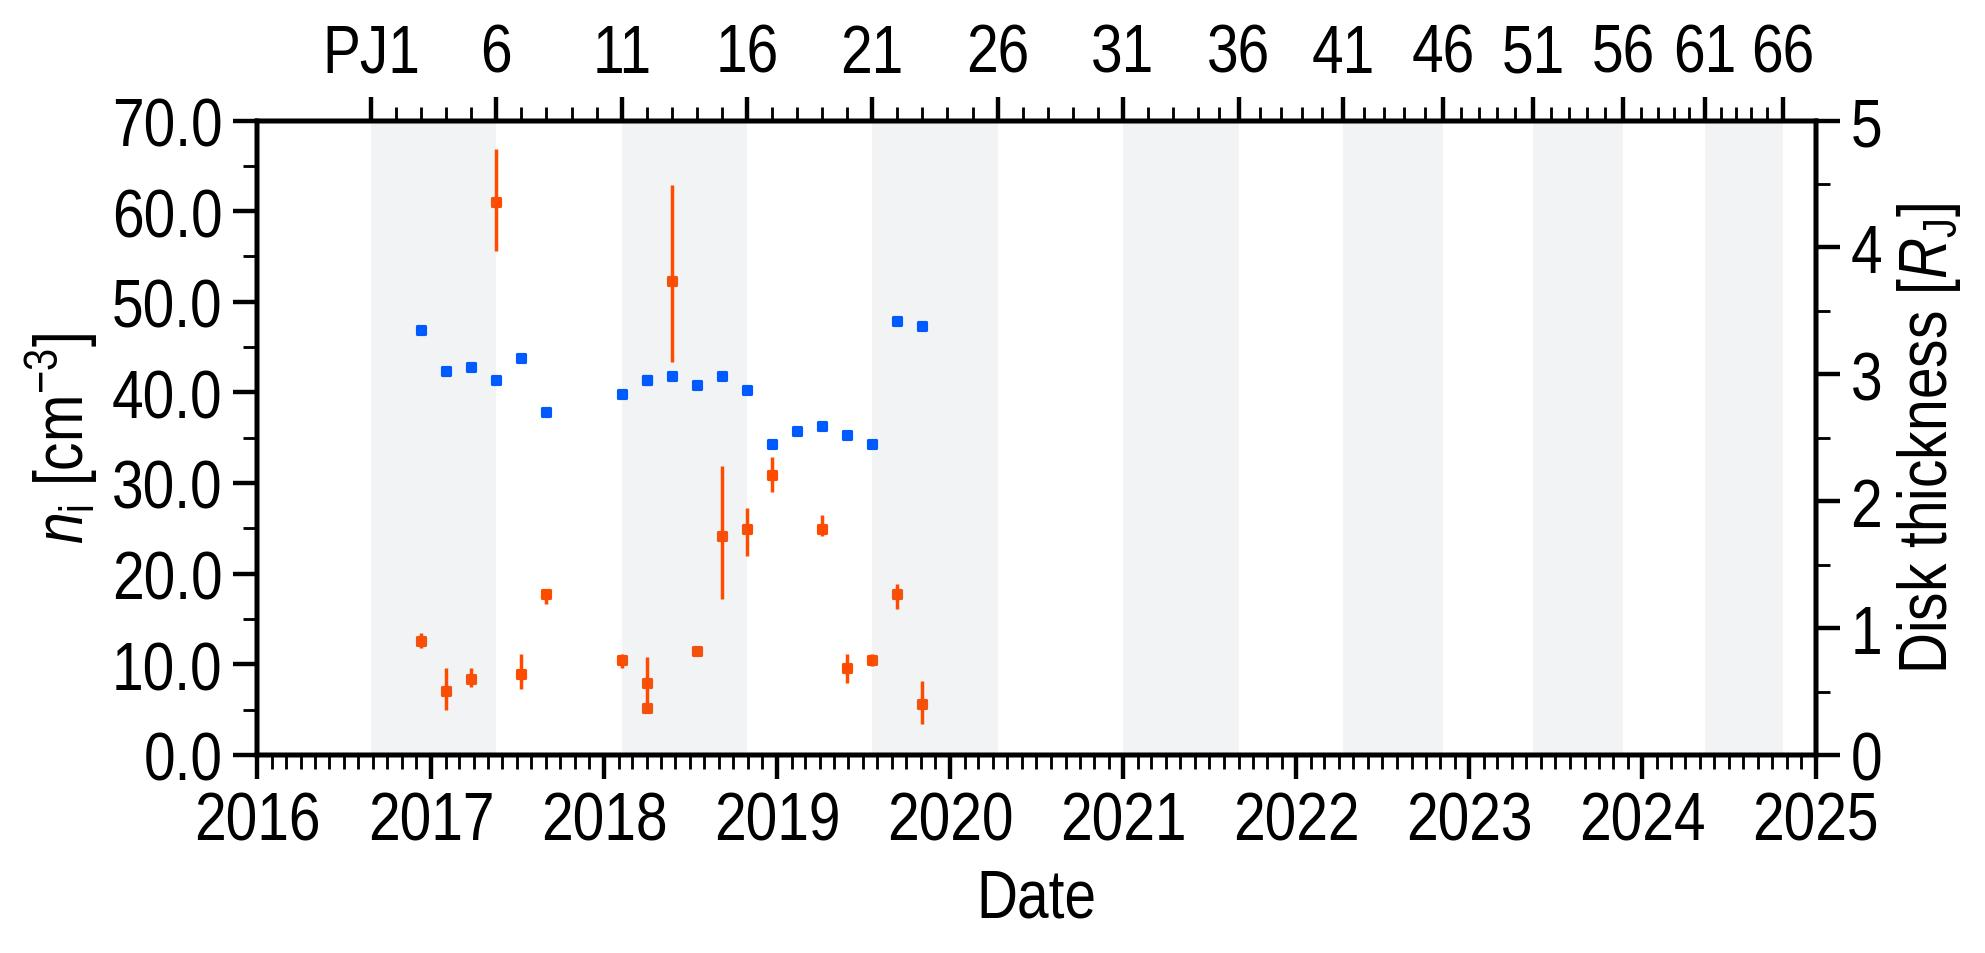
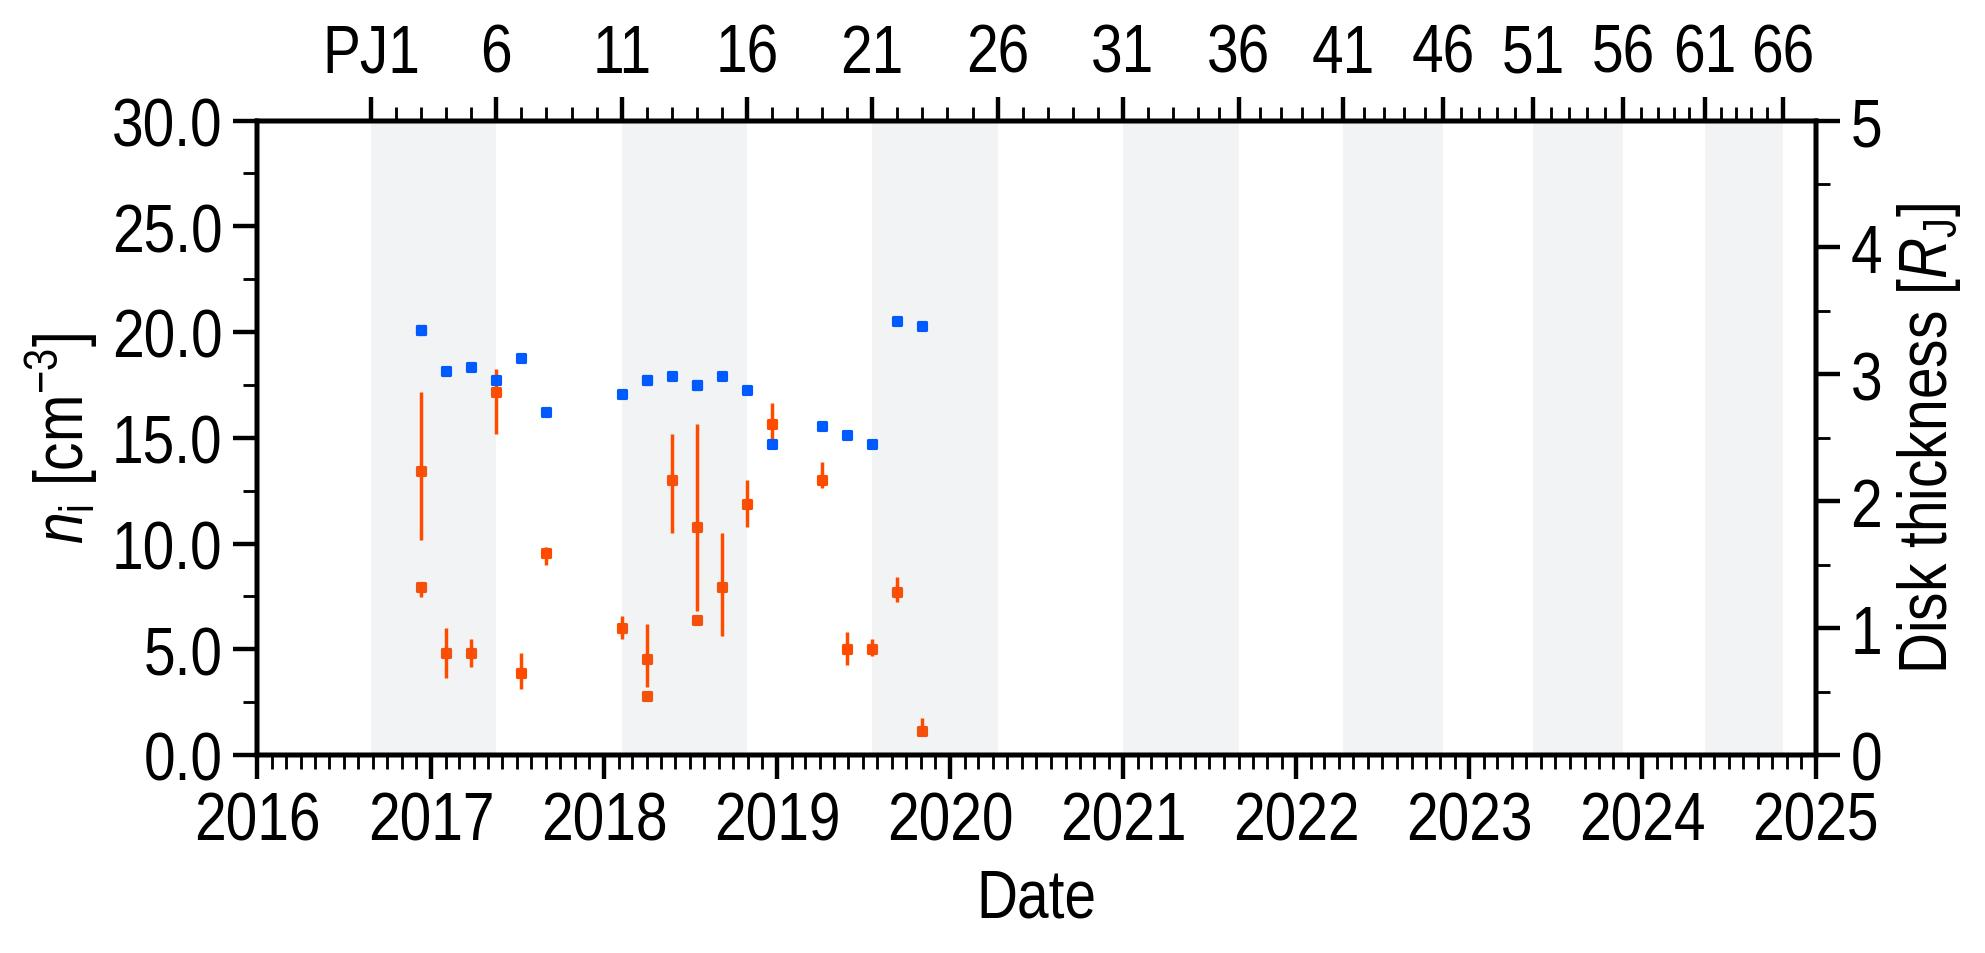
Ganymede latitude visualize

diff --git a/chi2_visualize8.py b/chi2_visualize8.py
@@ -48,35 +48,26 @@ Te = 300.0              # Io: 6.0 [eV]/ Eu: 20.0 / Ga: 300.0
 
 
 # %% Footprint obs. list (Ganymede)
-PJ_LIST = [3, 4, 5, 6,  # 3,
+PJ_LIST = [3, 4, 5, 6,
            7,  # 8,
-           11,  # 8,
-           8,
-           12, 12, 13,  # 14,
-           14,
-           15, 16, 17, 18,  # 19,
-           19, 20, 21, 22, 23,
-           # 3,
+           8, 11, 12,
+           12, 13, 14, 15,
+           16, 17, 19, 20, 21,
+           22, 23,
            ]
-HEM_LIST = ['both', 'both', 'S', 'both',  # 'N',
-            'S',  # 'both',
-            'N',  # 'N',
-            'S',
-            'N', 'S', 'both',  # 'N',
-            'S',
-            'N', 'S', 'S', 'S',  # 'N',
-            'S', 'N', 'S', 'N', 'both',
-            # 'S',
+HEM_LIST = ['S', 'both', 'S', 'both',
+            'S',  # 'N',
+            'S', 'N', 'N',
+            'S', 'both', 'S', 'N',
+            'S', 'S', 'S', 'N', 'S',
+            'N', 'both'
             ]
-EXNAME_LIST = ['001', '002', '003', '004',  # '005',
-               '007',  # '008',
-               '009',  # '010',
-               '011',
-               '012', '013', '014',  # '015',
-               '016',
-               '017', '018', '019', '020',  # '021',
-               '022', '023', '024', '025', '026',
-               # '027',
+EXNAME_LIST = ['030', '031', '032', '033',
+               '034',  # '035',
+               '036', '037', '038',
+               '039', '040', '042', '043',
+               '044', '045', '048', '049', '050',
+               '051', '052',
                ]
 
 
@@ -89,6 +80,7 @@ MU0 = 1.26E-6            # 真空中の透磁率
 AMU2KG = 1.66E-27        # 原子質量をkgに変換するファクタ [kg]
 RJ = 71492E+3            # JUPITER RADIUS [m]
 MJ = 1.90E+27            # JUPITER MASS [kg]
+OMGJ = 2*np.pi/(9.0*3600.0+55.5*60)  # JUPITER ANGULAR VELOCITY [rad/s]
 C = 2.99792E+8           # LIGHT SPEED [m/s]
 G = 6.67E-11             # 万有引力定数  [m^3 kg^-1 s^-2]
 
@@ -137,7 +129,10 @@ con20_mu_i_tot = np.array([150.1, 137.8, 127.2, 129.1, 130.1,
 ni_best = np.zeros(len(PJ_LIST))
 ni_err_0 = np.zeros(len(PJ_LIST))
 ni_err_1 = np.zeros(len(PJ_LIST))
+Hp = np.zeros(len(PJ_LIST))
 D_thick = np.zeros(len(PJ_LIST))
+mu_i_Con2020 = np.zeros(len(PJ_LIST))
+rho_Con2020 = np.zeros(len(PJ_LIST))
 for i in range(len(PJ_LIST)):
     exname = exdir+'_'+EXNAME_LIST[i]
     chi2_1d = np.loadtxt('results/fit/'+exname+'/params_chi2.txt')
@@ -193,19 +188,37 @@ for i in range(len(PJ_LIST)):
     D_coef_err = np.loadtxt('results/magdisk_thickness_fit/' +
                             TARGET_MOON[0:2]+'_coef_1.txt')
 
-    D_disk = 3.6*RJ                          # [m]
-    Hp = (2/np.pi)*D_disk*D_coef[select_pj]  # [m]
-    D_thick[i] = D_disk*D_coef[select_pj]    # [m]
+    D_disk = 3.6*RJ                                      # [m]
+    Hp[i] = (2/np.sqrt(np.pi))*D_disk*D_coef[select_pj]  # [m]
+    D_thick[i] = D_disk*D_coef[select_pj]                # [m]
 
     # Best fit ion density
     d_chi2 = d_chi2_3d[:, 1, 0]
     print(d_chi2.shape)
     print(np.where(d_chi2 <= 9.00))
+    Ai_best = Ai_3d[0, 1, 0]
     ni_best[i] = ni_3d[:, 1, 0][np.argmin(d_chi2)]
     ni_err_0[i] = ni_best[i]-np.min(ni_3d[:, 1, 0][np.where(d_chi2 <= 9.00)])
     ni_err_1[i] = np.max(ni_3d[:, 1, 0][np.where(d_chi2 <= 9.00)])-ni_best[i]
     print('ni_best:', ni_best[i])
     print('ni_err:', ni_err_0[i], ni_err_1[i])
+
+    # Connerney+2020の結果から質量密度を類推する
+    mu_i_default = 139.6    # default: 139.6 [nT]
+    d_rj_default = 3.6      # default: 3.6 [RJ]
+    jm.Con2020.Config(mu_i=mu_i_default*mui_coef[select_pj],
+                      d=d_rj_default*D_coef[select_pj],
+                      equation_type='analytic')
+    Bx0, By0, Bz0 = jm.Internal.Field(r_moon/RJ, 0.0, 0.0)  # [nT]
+    Bx1, By1, Bz1 = jm.Con2020.Field(r_moon/RJ, 0.0, 0.0)   # [nT]
+    Bx = (Bx0+Bx1)*1E-9     # [T]
+    By = (By0+By1)*1E-9     # [T]
+    Bz = (Bz0+Bz1)*1E-9     # [T]
+    rho_Con2020[i] = - con20_mu_i_tot[select_pj] * \
+        (1E-9)*(2*(Bz0)*(1E-9)/(MU0*(OMGJ*r_moon)**2))
+    rho_Con2020[i] *= (1/AMU2KG)*1E-6      # [AMU cm-3]
+    mu_i_Con2020[i] = mu_i_default*mui_coef[select_pj]  # [nT]
+    print(rho_Con2020[i], '[AMU cm-3]')
 
 
 # %% Juno's perijove times
@@ -326,6 +339,7 @@ JUNO_PJ_LABELS = ['PJ1', '', '', '', '',
 
 
 # %% 横軸を時間でプロットする
+# ======================
 F = ShareXaxis()
 F.fontsize = 22
 F.fontname = 'Liberation Sans Narrow'
@@ -361,9 +375,9 @@ ticklabels = F.ax.get_xticklabels()
 ticklabels[0].set_ha('center')
 F.set_yaxis(ax_idx=0,
             label=r'$n_{\rm i}$ [cm$^{-3}$]',
-            min=0, max=70,
-            ticks=np.linspace(0, 70, 8),
-            ticklabels=np.linspace(0, 70, 8),
+            min=0, max=30,
+            ticks=np.linspace(0, 30, 7),
+            ticklabels=np.linspace(0, 30, 7),
             minor_num=2)
 
 # Magnetodisk thickness [RJ]
@@ -381,6 +395,9 @@ for i in range(len(PJ_LIST)):
                   yerr=[[ni_err_0[i]], [ni_err_1[i]]],
                   elinewidth=1.1, linewidth=0., markersize=0,
                   color=UC.red)
+
+    # F.ax.scatter(x, rho_Con2020[i]/Ai_best,
+    #              marker='s', s=5.0, c=UC.orange)
 
     Rax.scatter(x, D_thick[i]/RJ, marker='s', s=5.0, c=UC.blue)
 
@@ -408,5 +425,80 @@ F.ax.axvspan(JUNO_PJ_TIMES[50], JUNO_PJ_TIMES[55],
 F.ax.axvspan(JUNO_PJ_TIMES[60], JUNO_PJ_TIMES[65],
              fc=UC.gray, ec=None, alpha=0.10)
 
-F.fig.savefig('Ga_ni_timeseries.jpg', bbox_inches='tight')
+F.fig.savefig('img/ftmc/'+TARGET_MOON[0:2]+'/' + exdir + '/ni_timeseries.jpg',
+              bbox_inches='tight')
+F.close()
+
+
+# %% 横軸: n_i / 縦軸: Current constant
+# ======================
+F = ShareXaxis()
+F.fontsize = 22
+F.fontname = 'Liberation Sans Narrow'
+
+F.set_figparams(nrows=1, figsize=(5.0, 5.0), dpi='L')
+F.initialize()
+# F.panelname = [' a. Io ', ' b. Europa ', ' c. Ganymede ']
+
+F.set_xaxis(label=r'$n_{\rm i}$ [cm$^{-3}$]',
+            min=0, max=25,
+            ticks=np.linspace(0, 25, 6),
+            ticklabels=np.linspace(0, 25, 6),
+            minor_num=5)
+F.set_yaxis(ax_idx=0,
+            label='Current constant [nT]',
+            min=0, max=200,
+            ticks=np.linspace(0, 200, 5),
+            ticklabels=np.linspace(0, 200, 5),
+            minor_num=5)
+
+for i in range(len(PJ_LIST)):
+    x = ni_best[i]
+    y = mu_i_Con2020[i]
+    F.ax.scatter(x, y, marker='s', s=5.0, c=UC.red)
+    F.ax.errorbar(x=x, y=y,
+                  xerr=[[ni_err_0[i]], [ni_err_1[i]]],
+                  elinewidth=1.1, linewidth=0., markersize=0,
+                  color=UC.red)
+
+
+F.fig.savefig('img/ftmc/'+TARGET_MOON[0:2]+'/' + exdir + '/ni_vs_current.jpg',
+              bbox_inches='tight')
+F.close()
+
+
+# %% 横軸: FTMC / 縦軸: Current constant
+# ======================
+F = ShareXaxis()
+F.fontsize = 22
+F.fontname = 'Liberation Sans Narrow'
+
+F.set_figparams(nrows=1, figsize=(5.0, 5.0), dpi='L')
+F.initialize()
+# F.panelname = [' a. Io ', ' b. Europa ', ' c. Ganymede ']
+
+F.set_xaxis(label=r'FTMC [10$^{-9}$ kg m$^{-2}$]',
+            min=0, max=0.2,
+            ticks=np.linspace(0, 2, 5)/10,
+            ticklabels=np.linspace(0, 2, 5)/10,
+            minor_num=5)
+F.set_yaxis(ax_idx=0,
+            label='Current constant [nT]',
+            min=0, max=200,
+            ticks=np.linspace(0, 200, 5),
+            ticklabels=np.linspace(0, 200, 5),
+            minor_num=5)
+
+for i in range(len(PJ_LIST)):
+    x = Ai_best*AMU2KG*ni_best[i]*1E+6*Hp[i]*np.sqrt(np.pi)
+    y = mu_i_Con2020[i]
+    F.ax.scatter(x*1E+9, y, marker='s', s=5.0, c=UC.red)
+    """F.ax.errorbar(x=x, y=y,
+                  xerr=[[ni_err_0[i]], [ni_err_1[i]]],
+                  elinewidth=1.1, linewidth=0., markersize=0,
+                  color=UC.red)"""
+    print(Hp[i]/RJ)
+
+F.fig.savefig('img/ftmc/'+TARGET_MOON[0:2]+'/' + exdir + '/ftmc_vs_current.jpg',
+              bbox_inches='tight')
 F.close()

diff --git a/Leadangle_fit_JunoUVS.py b/Leadangle_fit_JunoUVS.py
@@ -805,8 +805,8 @@ def mode_select(H_1d):
     elif SELECT_MODE == '2':
         current_coef, _ = read_current_coef()
         D_coef, _ = read_disk_thick_coef()
-        D_disk = 3.6*RJ               # [m]
-        Hp = (2/np.pi)*D_disk*D_coef  # [m]
+        D_disk = 3.6*RJ                        # [m]
+        Hp = (2/np.sqrt(np.pi))*D_disk*D_coef  # [m]
         Wave.Awave().update_Con2020(current_coef=current_coef, thickness_coef=D_coef)
         H_1d = Hp*np.ones(H_1d.shape)
 
@@ -981,7 +981,7 @@ def main():
 # %% EXECUTE
 if __name__ == '__main__':
     # Name of execution
-    exname = '1001/20260421_026'
+    exname = '1001/20260421_052'
 
     # Input about Juno observation
     TARGET_MOON = 'Ganymede'
@@ -1002,7 +1002,7 @@ if __name__ == '__main__':
     Ti_0, Ti_1, Ti_num, Ti_scale = 1.0, 200.0, 1, 'linear'
 
     # Number of parallel processes
-    parallel = 15
+    parallel = 16
 
     main()
 